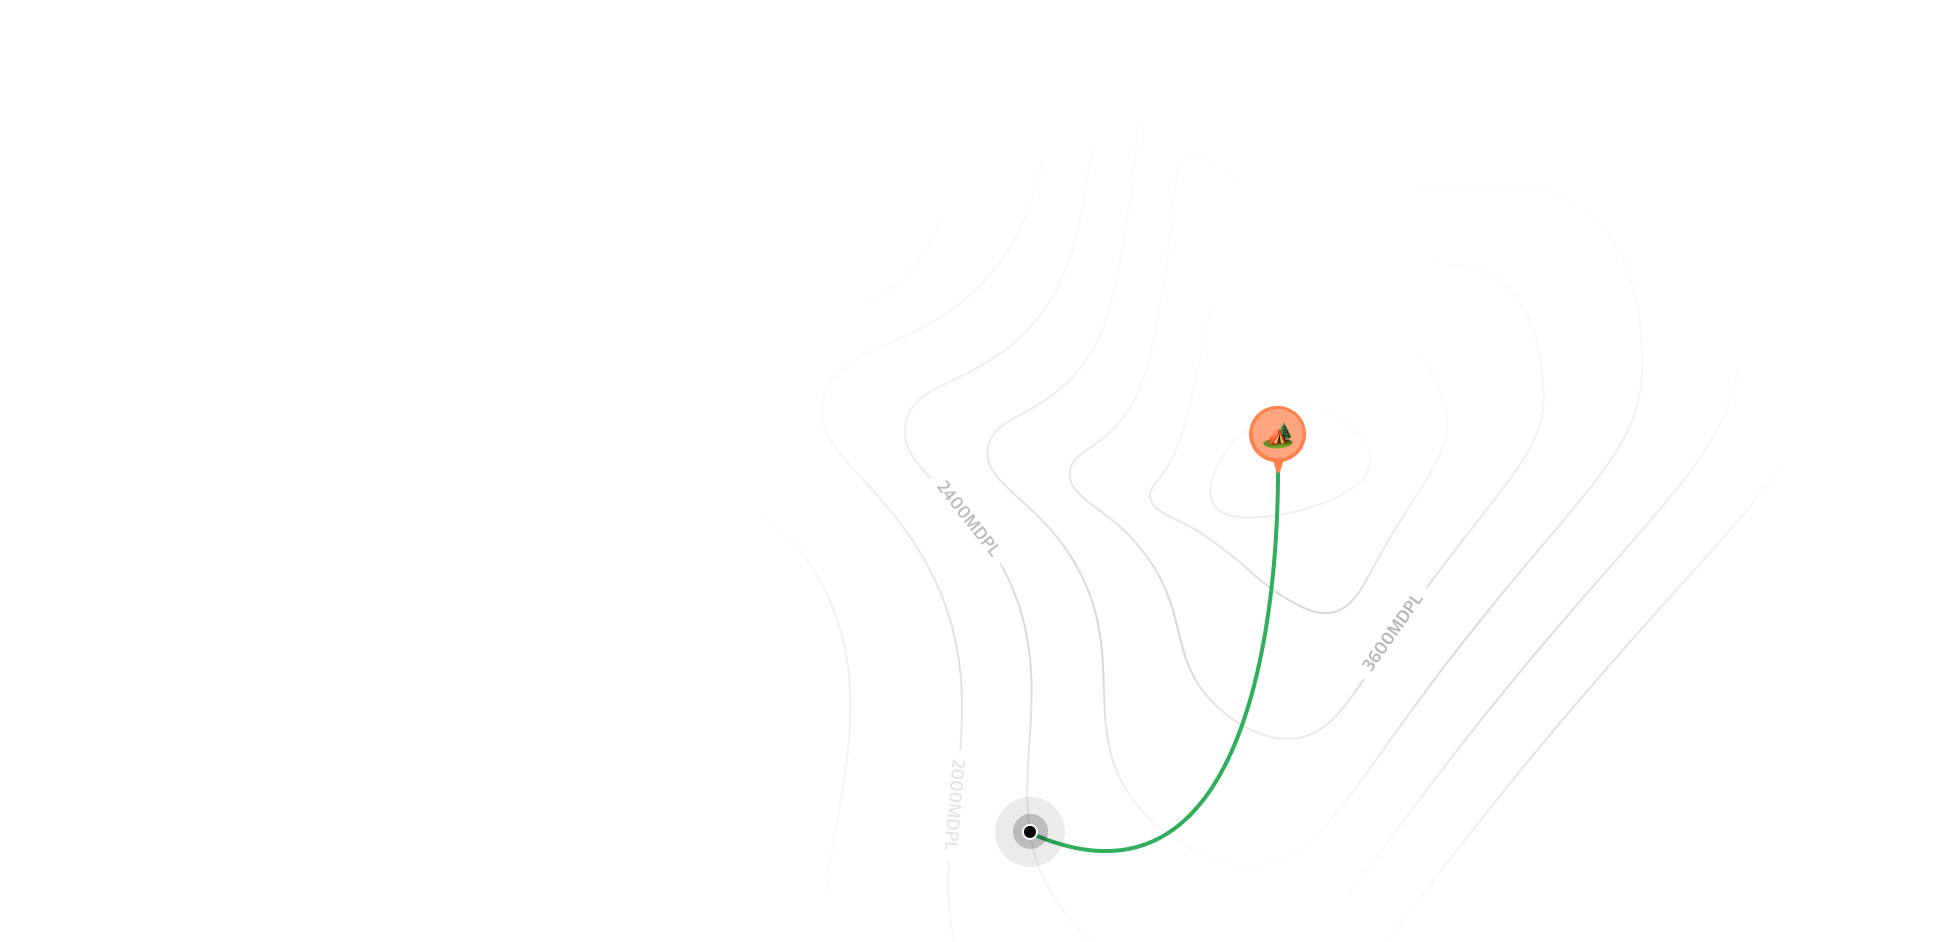
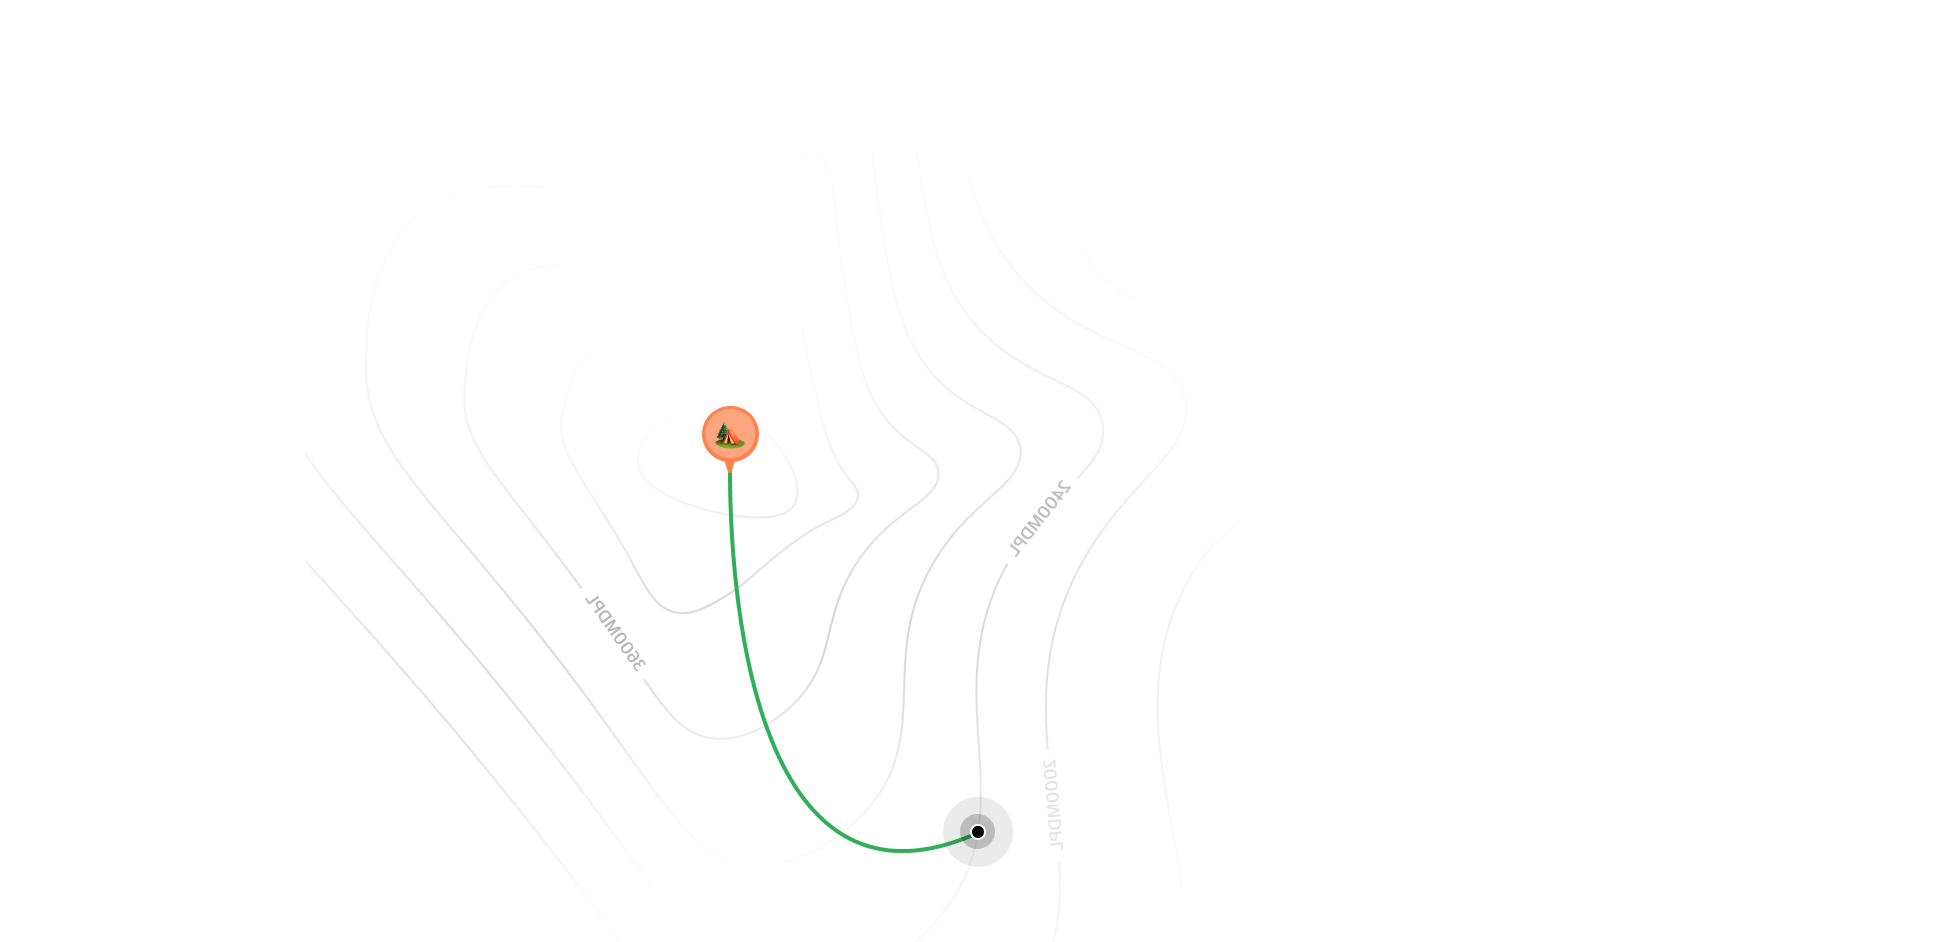
hero & camp added

diff --git a/components/Camp.tsx b/components/Camp.tsx
@@ -1,9 +1,93 @@
-import React from 'react'
+import { PEOPLE_URL } from "@/constants";
+import Image from "next/image";
+import React from "react";
+
+interface CampProps {
+  backgroundImage: string;
+  subtitle: string;
+  title: string;
+  peopleJoind: string;
+}
+const CampSite = ({
+  backgroundImage,
+  subtitle,
+  title,
+  peopleJoind,
+}: CampProps) => {
+  return (
+    <div
+      className={`h-full w-full min-w-[1100px] ${backgroundImage} bg-cover bg-no-repeat lg:rounded-r-5xl 2xl:rounded-5xl`}
+    >
+      <div className="flex h-full flex-col items-start justify-between p-6 lg:px-20 lg:py-10">
+        <div className="flexCenter gap-4">
+          <div className="rounded-full bg-green-50 p-4">
+            <Image src="/folded-map.svg" alt="map" width={28} height={28} />
+          </div>
+          <div className="flex flex-col gap-1">
+            <h4 className="bold-18 text-white"> {title}</h4>
+            <p className="regular-14 text-white">{subtitle}</p>
+          </div>
+        </div>
+
+        <div className="flexCenter gap-6">
+          <span className="flex -space-x-4 overflow-hidden">
+            {PEOPLE_URL.map((url) => (
+              <Image
+                src={url}
+                key={url}
+                alt="person"
+                width={52}
+                height={52}
+                className="inline-block h-10 w-10 rounded-full"
+              />
+            ))}
+          </span>
+          <p className="bold-16 md:bold-20 text-white">{peopleJoind}</p>
+        </div>
+      </div>
+    </div>
+  );
+};
 
 const Camp = () => {
   return (
-    <div>Camp</div>
-  )
-}
+    <section className="2xl:max-container relative flex flex-col py-10 lg:mb-10 lg:py-20 xl:mb-20">
+      <div className="hide-scrollbar flex h-[340px] w-full items-start justify-start gap-8 overflow-x-auto lg:h-[400px] xl:h-[640px]">
+        <CampSite
+          backgroundImage="bg-bg-img-1"
+          title="پوتوک تورنو کمپ"
+          subtitle="پریگن، پاسوروان"
+          peopleJoind="+50 نفر"
+        />{" "}
+        <CampSite
+          backgroundImage="bg-bg-img-2"
+          title="کمپ کوهستانی"
+          subtitle="جایی در بیابان"
+          peopleJoind="+50 نفر"
+        />
+      </div>
 
-export default Camp
+      <div className="flexEnd mt-10 px-6 lg:-mt-60 lg:mr-6">
+        <div className="bg-green-50 p-8 lg:max-w-[500px] xl:max=w=[734px] xl:rounded-5xl xl:px-16 xl:py-16 relative w-full overflow-hidden rounded-3xl">
+          <h2 className="regular-24 md:regular-32 2xl:regular-64 text-white">
+            <strong>دل تنگی</strong> و راه را بلد نیستی؟
+          </h2>
+          <p className="regular-14 xl:regular-16 mt-5 text-white">
+            با شروع از اضطراب کوهنوردان هنگام بازدید از مکان جدید کوهنوردی،
+            احتمال گم شدن بسیار زیاد است. به همین دلیل است که برای کسانی از شما
+            که می خواهند ماجراجویی را شروع کنند، اینجا هستیم
+          </p>
+          <Image
+            src="/quote.svg"
+            alt="camp-2"
+            width={186}
+            height={219}
+            className="camp-quote"
+          />
+        </div>
+      </div>
+    </section>
+  );
+};
+
+export default Camp;

diff --git a/components/Hero.tsx b/components/Hero.tsx
@@ -1,9 +1,80 @@
-import React from 'react'
+import Image from "next/image";
+import Button from "./Button";
 
 const Hero = () => {
   return (
-    <div>Hero</div>
-  )
-}
+    <section className="max-container padding-container flex flex-col gap-20 py-10 pb-32 md:gap-28 lg:py-20 xl:flex-row">
+      <div className="hero-map" />
+      <div className="relative z-20 flex fle-1 flex-col xl:w-1/2">
+        <Image
+          src="/camp.svg"
+          alt="camp"
+          width={50}
+          height={50}
+          className="absolute right-[-5px] top-[-30px] w-10 lg:w-[50px]"
+        />
+        <h1 className="bold-52 lg:bold-88">منطقه کمپ پوتوک ترونو</h1>
+        <p className="regular-16 mt-6 text-gray-30 xl:max-w-[520px]">
+          ما می خواهیم در هر یک از سفرهای شما به دنبال رضایت از دیدن زیبایی فساد
+          ناپذیر طبیعت باشیم. ما می توانیم تنها با یک برنامه به شما در ماجراجویی
+          در سراسر جهان کمک کنیم
+        </p>
 
-export default Hero
+        <div className="my-11 flex flex-wrap gap-5">
+          <div className="flex items-center gap-2">
+            {Array(5)
+              .fill(1)
+              .map((_, index) => (
+                <Image
+                  src="/star.svg"
+                  alt="star"
+                  key={index}
+                  width={24}
+                  height={24}
+                />
+              ))}
+          </div>
+
+          <p className="bold-16 lg:bold-20 text-blue-70">
+            198k
+            <span className="regular-16 lg:regular-20 ml-1">نظرات عالی</span>
+          </p>
+        </div>
+        <div className="flex flex-col w-full gap-3 sm:flex-row">
+          <Button type="button" title="دانلود برنامه" varient="btn_green" />
+          <Button
+            type="button"
+            title="
+        چگونه کار میکنیم؟"
+            varient="btn_white_text"
+            icon="/play.svg"
+          />
+        </div>
+      </div>
+
+      <div className="relative flex flex-1 items-start">
+        <div className="relative z-20 flex w-[268px] flex-col gap-8 rounded-3xl bg-green-90 px-7 py-8">
+          <div className="flex flex-col">
+            <div className="flexBetween">
+              <p className="regular-16 text-gray-20">مکان</p>
+              <Image src="/close.svg" alt="close" width={24} height={24} />
+            </div>
+            <p className="bold-20 text-white">سفر به نصف جهان</p>
+          </div>
+          <div className="flexBetween">
+            <div className="flex flex-col">
+              <p className="regular-16 block text-gray-20">مسافت</p>
+              <p className="bold-20 text-white">178.29 KM</p>
+            </div>
+            <div className="flex flex-col">
+              <p className="regular-16 block text-gray-20">ارتفاع</p>
+              <p className="bold-20 text-white">2.030 KM</p>
+            </div>
+          </div>
+        </div>
+      </div>
+    </section>
+  );
+};
+
+export default Hero;

diff --git a/app/globals.css b/app/globals.css
@@ -17,7 +17,6 @@ body {
 }
 
 @layer utilities {
- 
   .btn_white {
     @apply border-white bg-white px-8 py-3 text-green-50;
   }
@@ -133,7 +132,7 @@ body {
 
   /* Hero */
   .hero-map {
-    @apply absolute right-0 top-0 h-screen w-screen bg-pattern-2 bg-cover bg-center md:-right-28 xl:-top-60;
+    @apply absolute left-0 top-0 h-screen w-screen bg-pattern-2 bg-cover bg-center md:-left-28 xl:-top-60;
   }
 
   /* Camp */
